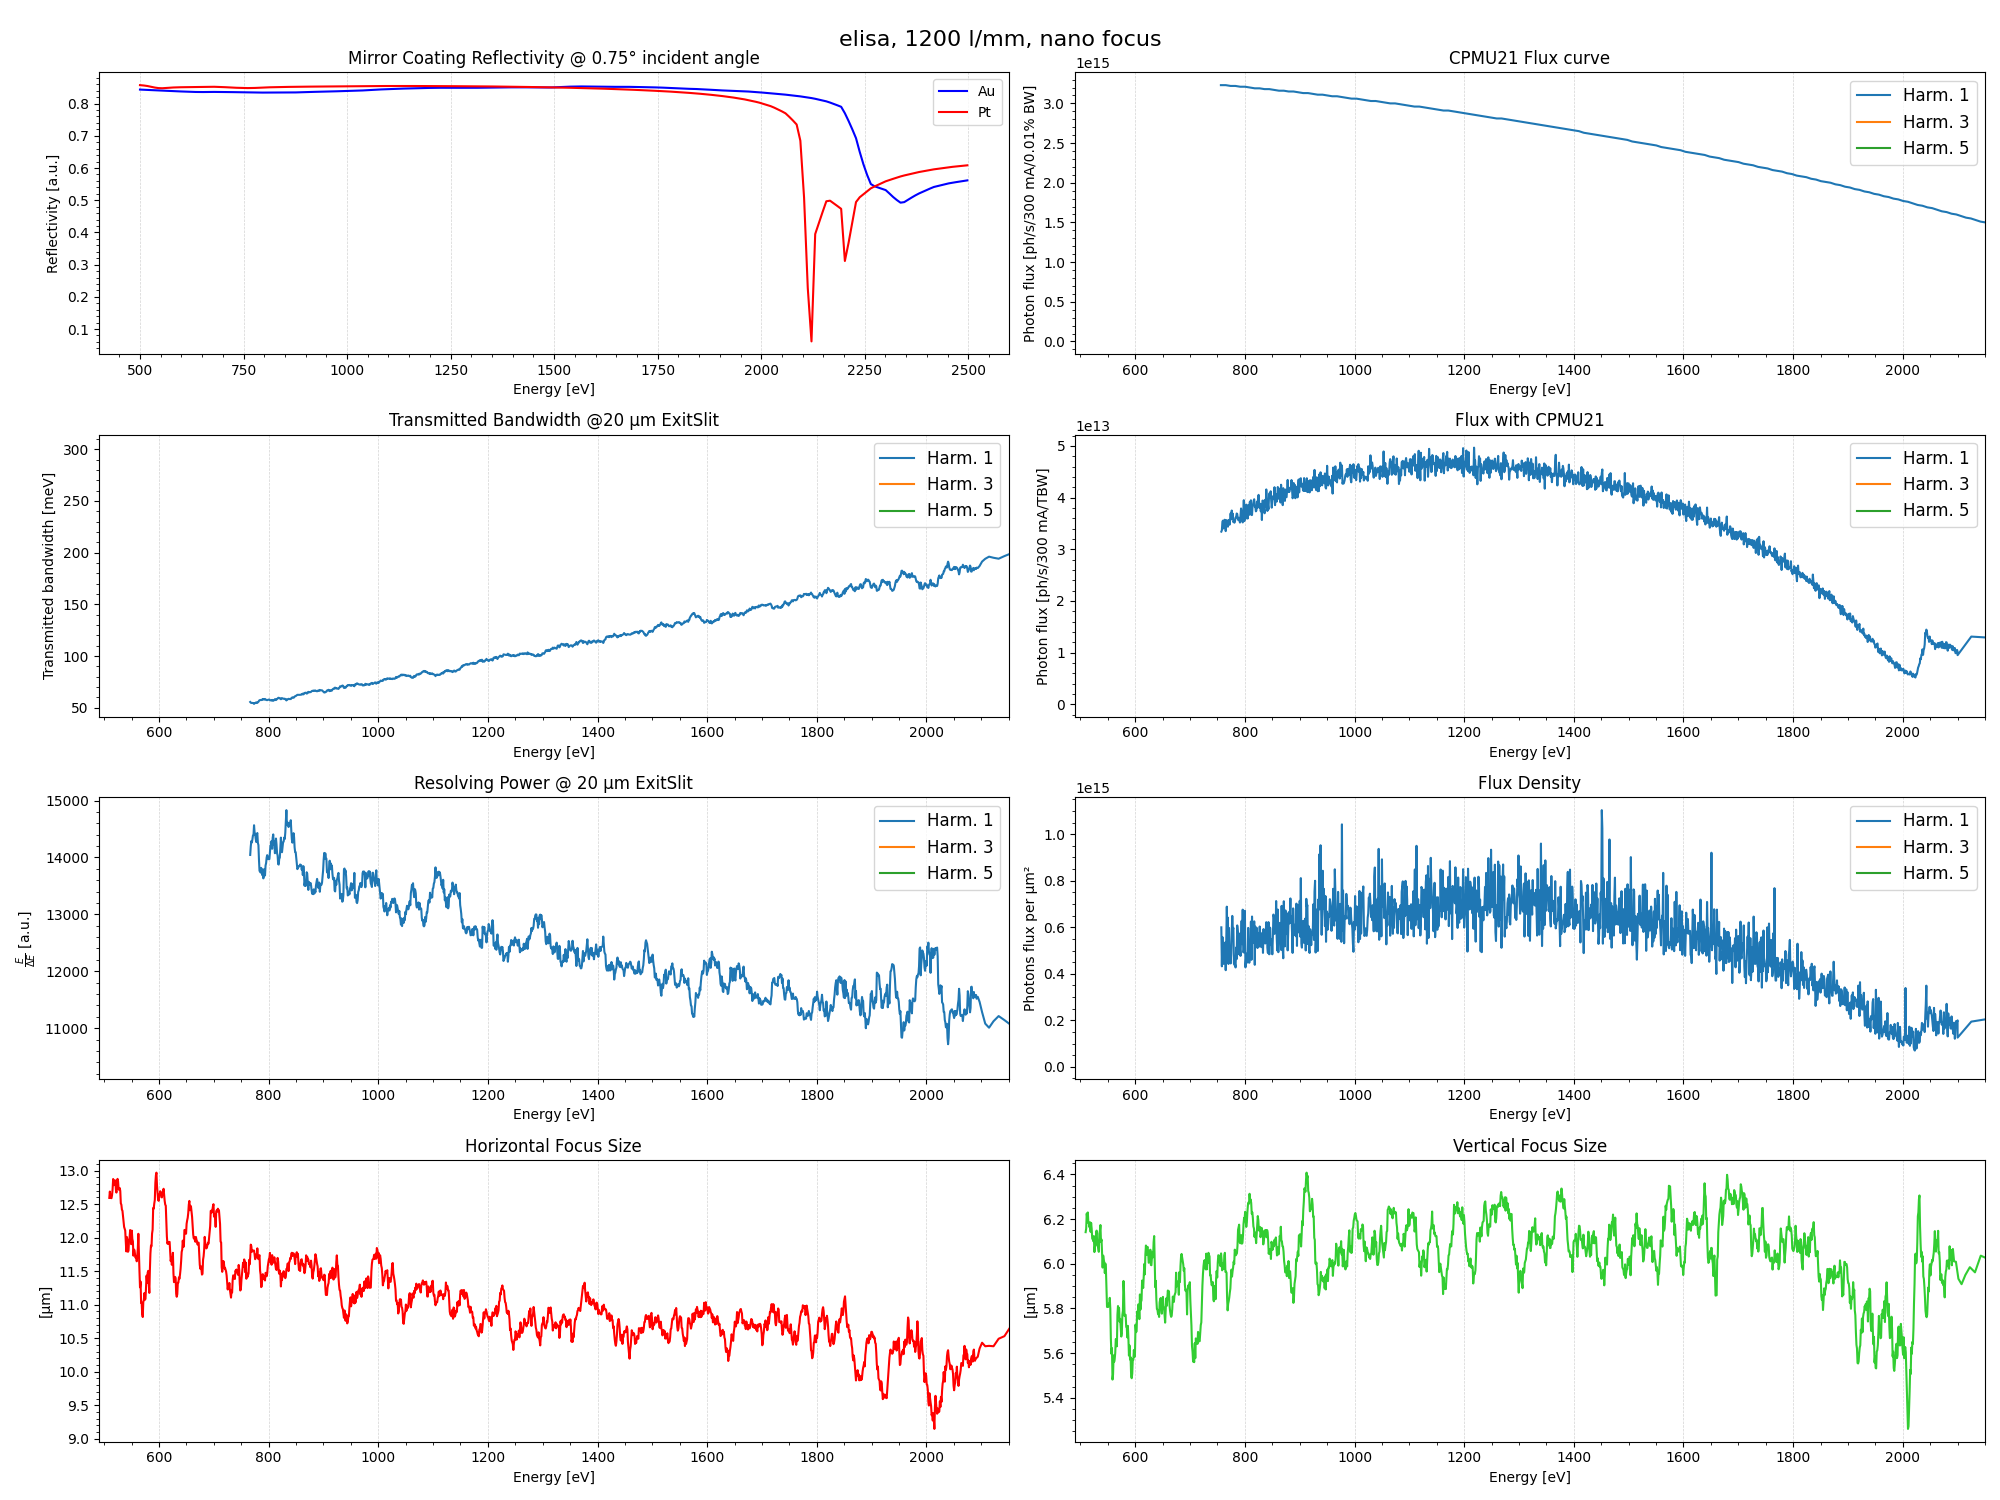
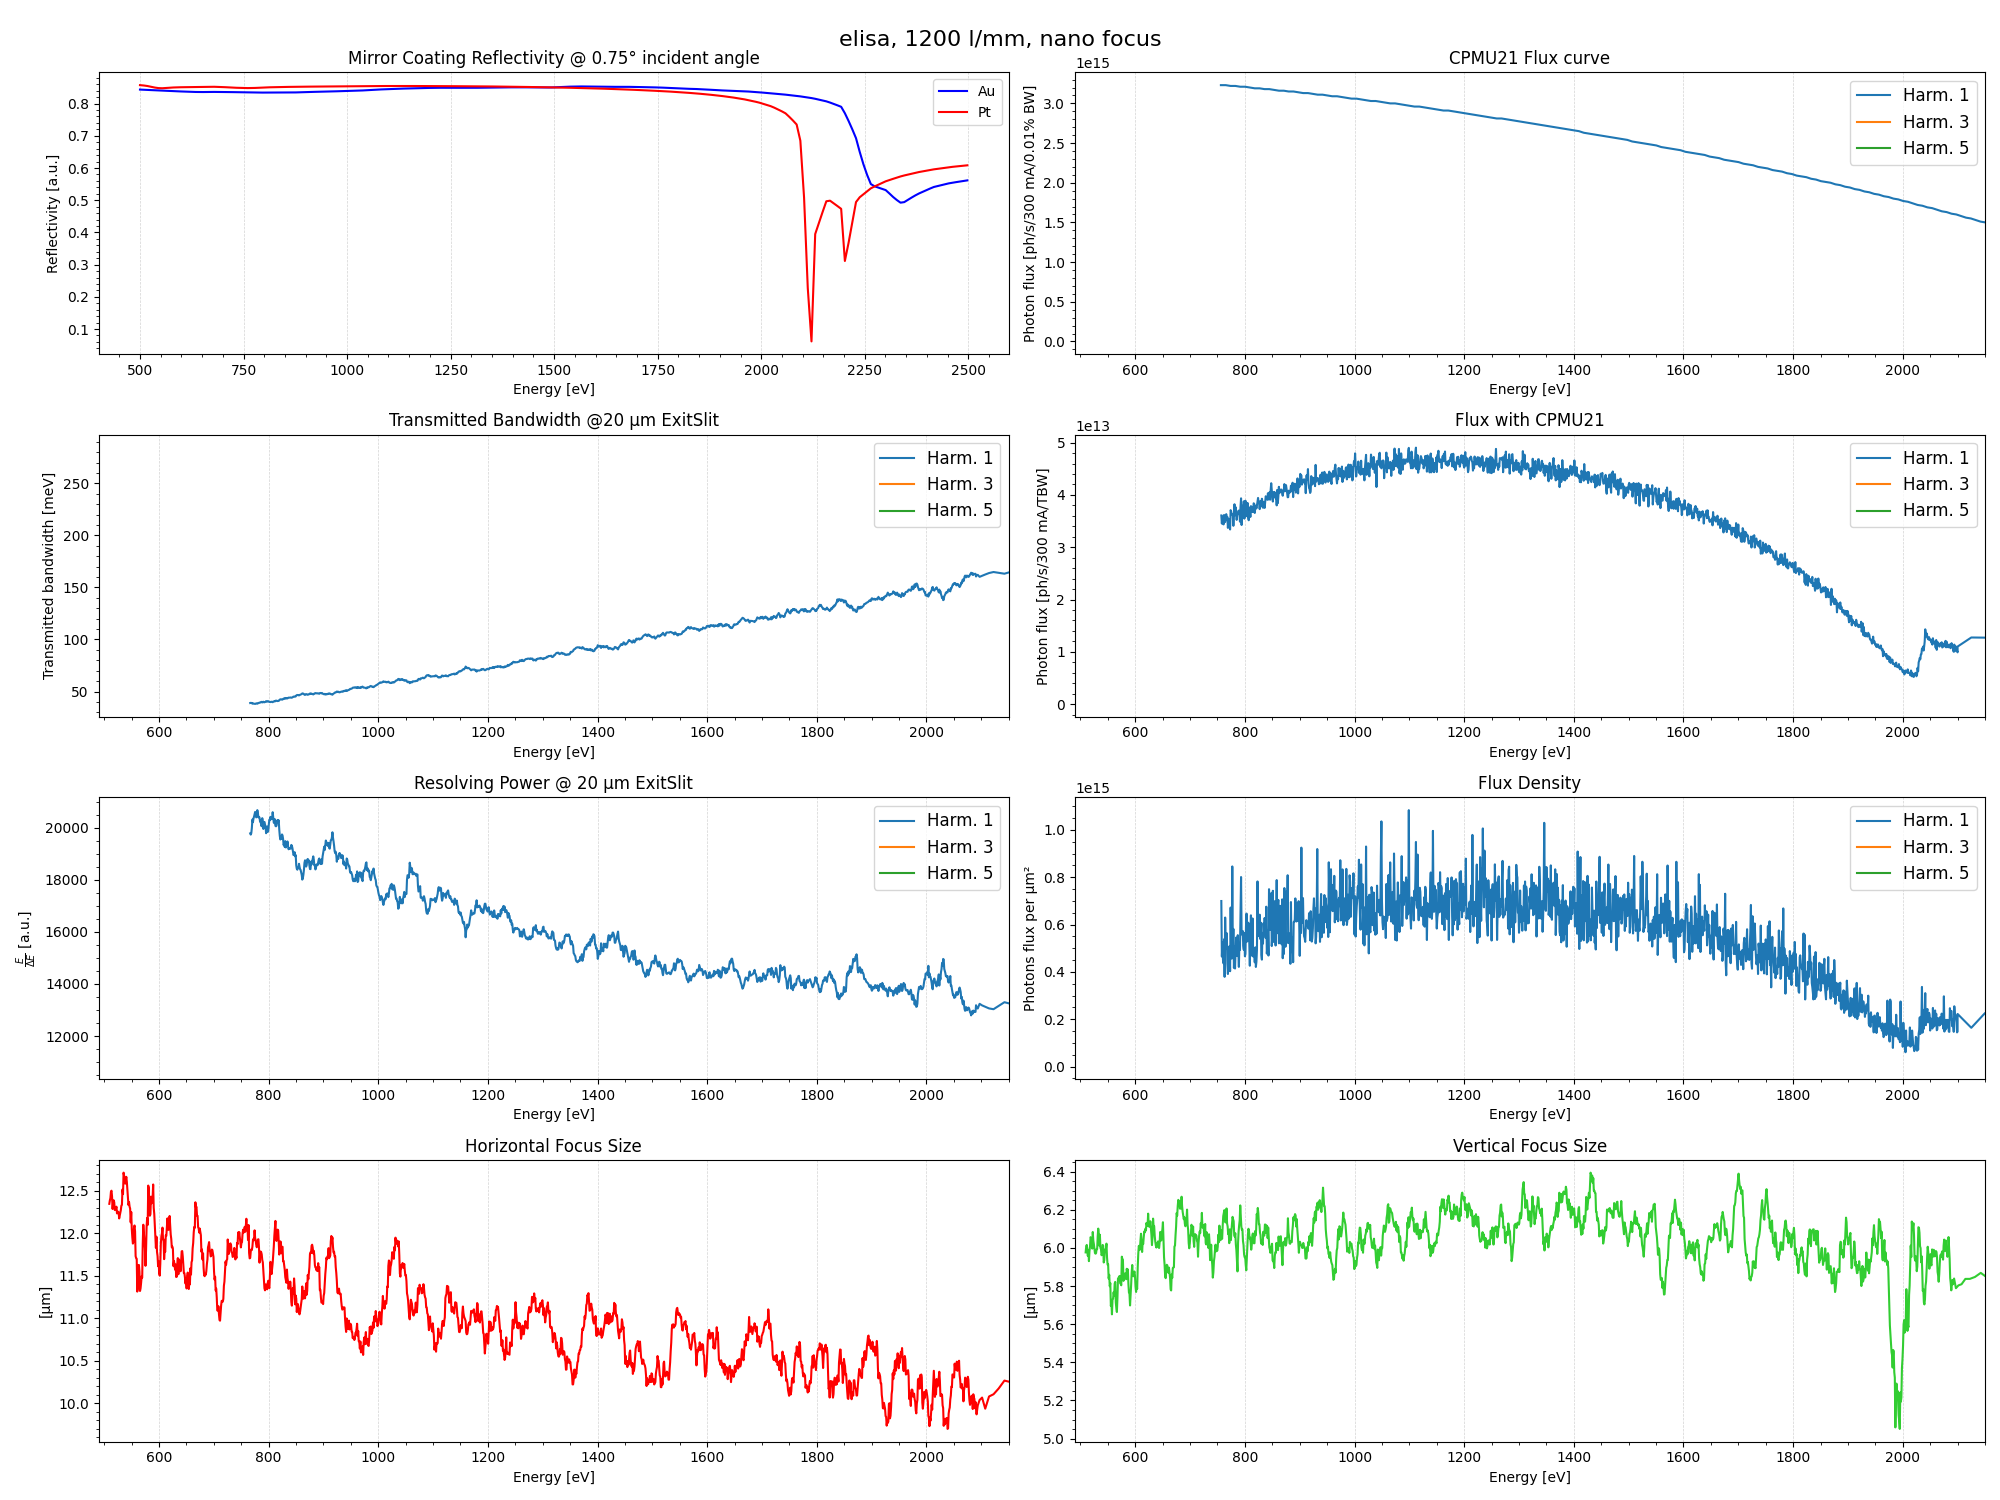
eval

diff --git a/beamlines/Signature2-Liquid_Interface/simulations/characterization/eval_1200.py b/beamlines/Signature2-Liquid_Interface/simulations/characterization/eval_1200.py
@@ -22,7 +22,7 @@ mov_av = p.moving_average
 # Read CSV-File of the Beamline Simulation
 BL_file_path = os.path.join('RAYPy_Simulation_elisa_1200', 'DetectorAtFocus_RawRaysOutgoing.csv')
 BL_df = pd.read_csv(BL_file_path)
-
+BL_df = BL_df[BL_df['PG.cFactor']>=3]  # Limit to 2150 eV for better plotting
 ##############################################################
 # PLOTTING AND ANALYSIS
 # Create the Main figure
@@ -187,5 +187,5 @@ if not os.path.exists(plot_folder):
 
 # Save the the figure
 plt.tight_layout()
-plt.savefig('plot/elisa_1200.png')
+plt.savefig('plot/elisa_1200_10.png')
 # plt.show()
